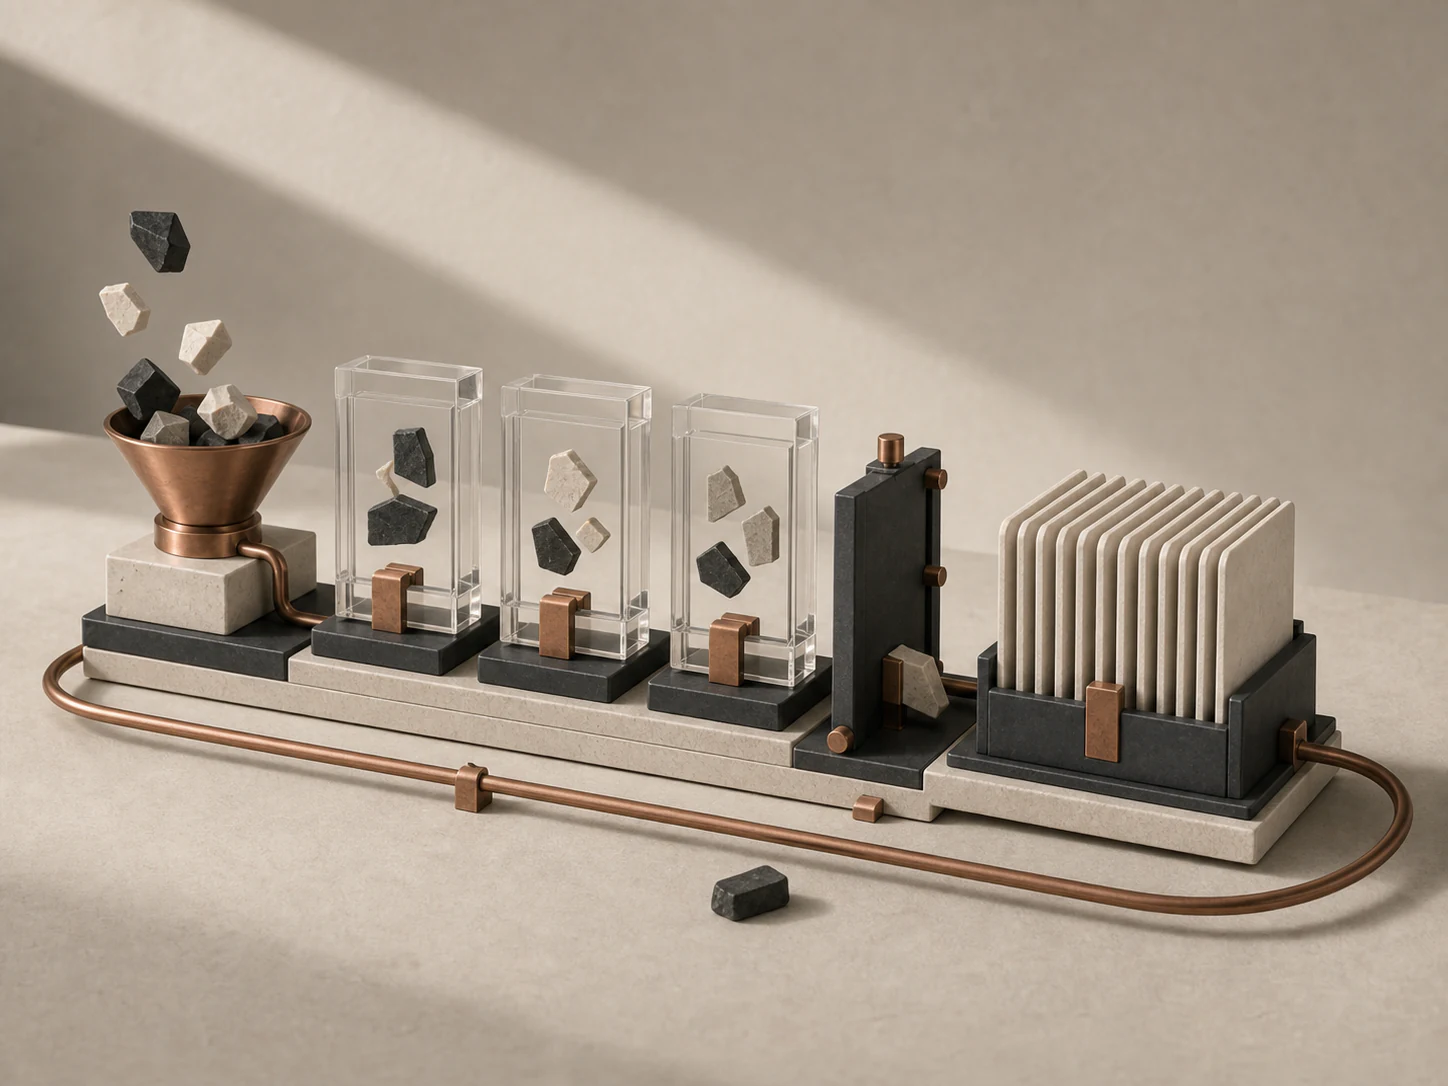
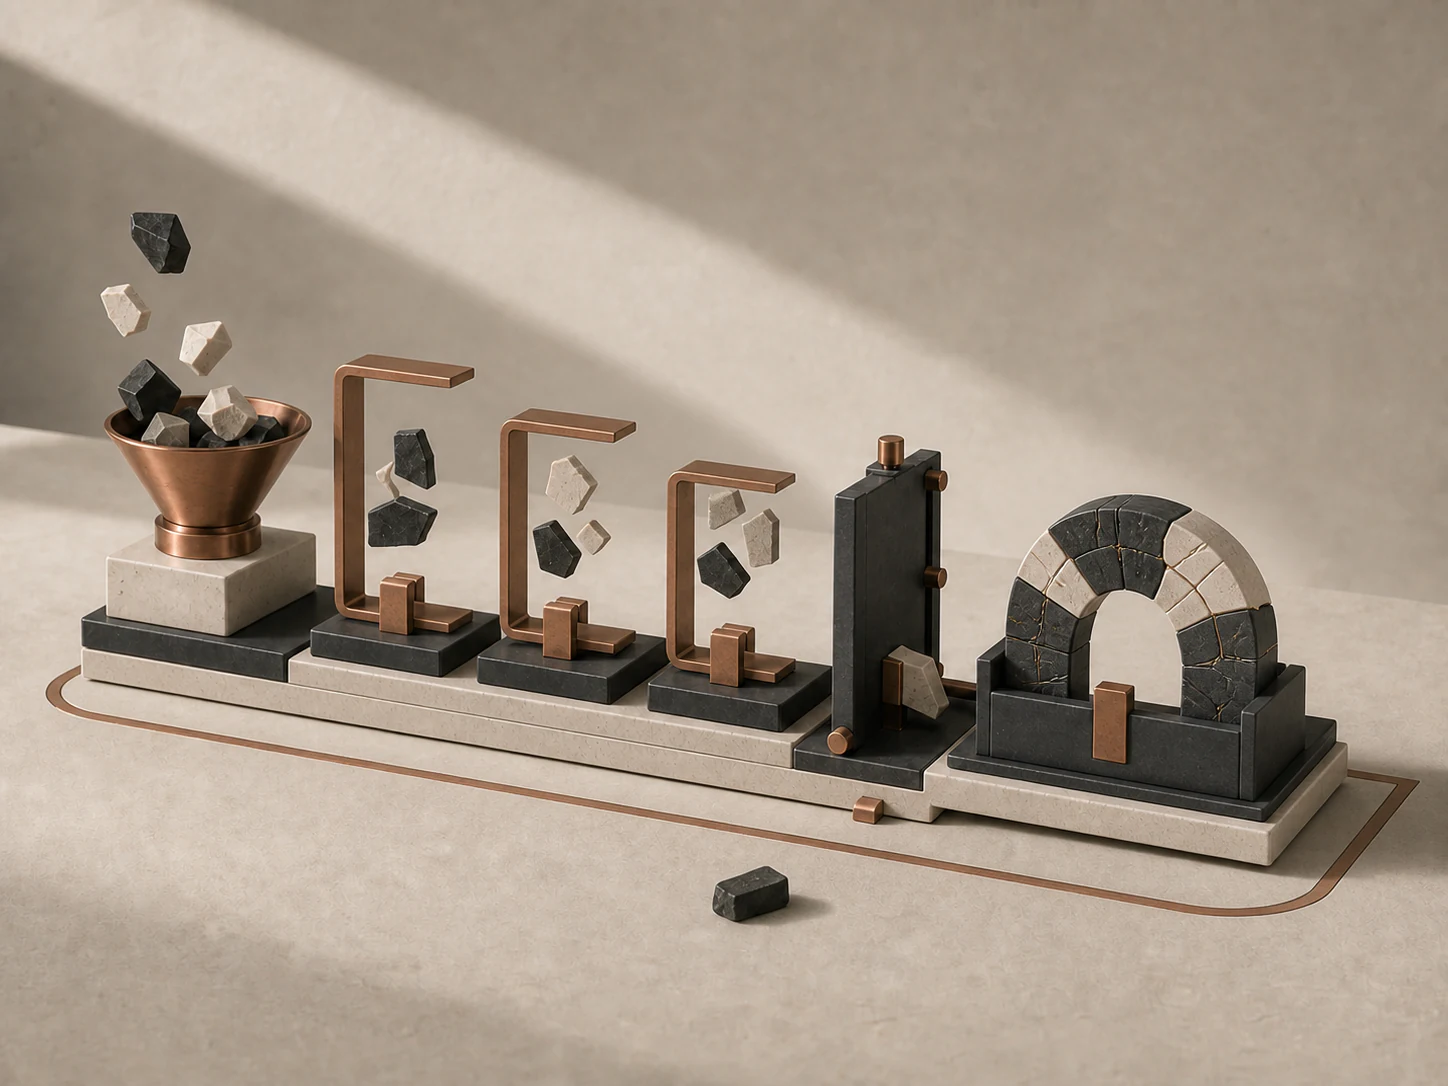
fix: preserve depth while diversifying project artwork

diff --git a/index.html b/index.html
@@ -541,7 +541,7 @@
                     width="1448"
                     height="1086"
                     loading="lazy"
-                    alt="Four retrieval spools feeding an auditable ranking drum and constrained recommendation slate"
+                    alt="Four signal coils feeding an open copper-mesh weaving core and textured recommendation swatches"
                   />
                 </div>
                 <div class="project-body">
@@ -577,7 +577,7 @@
                     width="1448"
                     height="1086"
                     loading="lazy"
-                    alt="Seven specimen tokens arranged around an explainable optical inspection and deployment gate"
+                    alt="Seven irregular samples passing beneath an angular optical prism toward a frozen holdout and deployment gate"
                   />
                 </div>
                 <div class="project-body">
@@ -613,7 +613,7 @@
                     width="1448"
                     height="1086"
                     loading="lazy"
-                    alt="Development fragments passing through evidence frames and an ablation gate into reusable rule cards"
+                    alt="Stone fragments moving through open evidence stands and an ablation gate into a reconstructed arch"
                   />
                 </div>
                 <div class="project-body">
@@ -649,7 +649,7 @@
                     width="1448"
                     height="1086"
                     loading="lazy"
-                    alt="Handcrafted Megumi chibi desktop pet beside a mechanical animation-state dial"
+                    alt="Megumi chibi desktop pet above a screen with an angular eight-pose animation track"
                   />
                 </div>
                 <div class="project-body">
